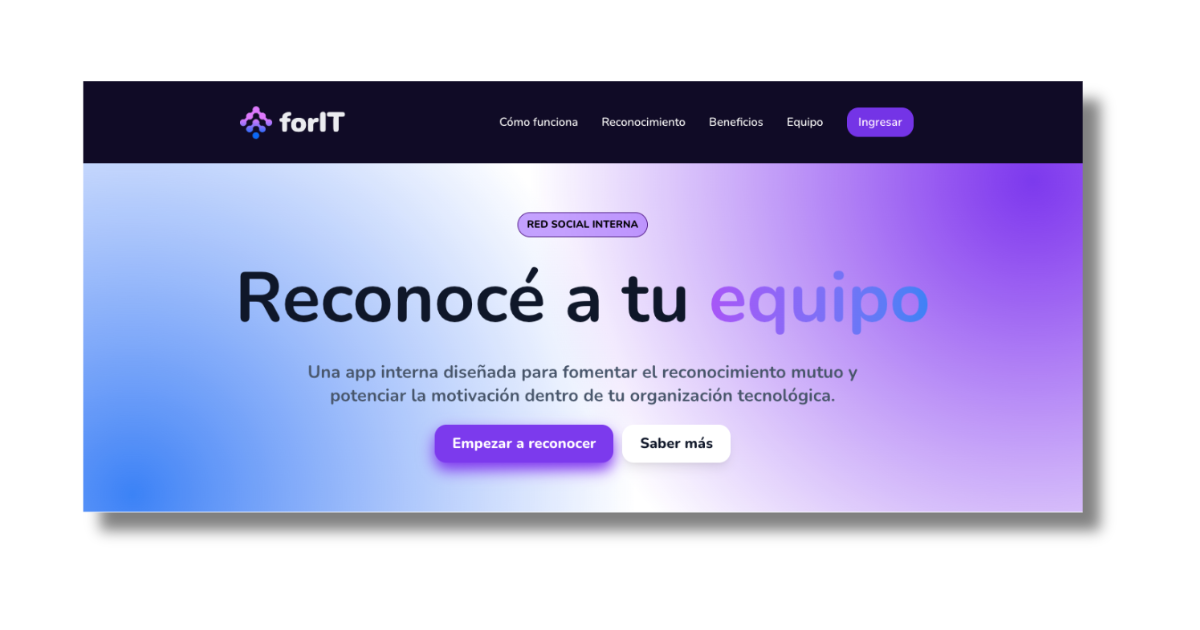
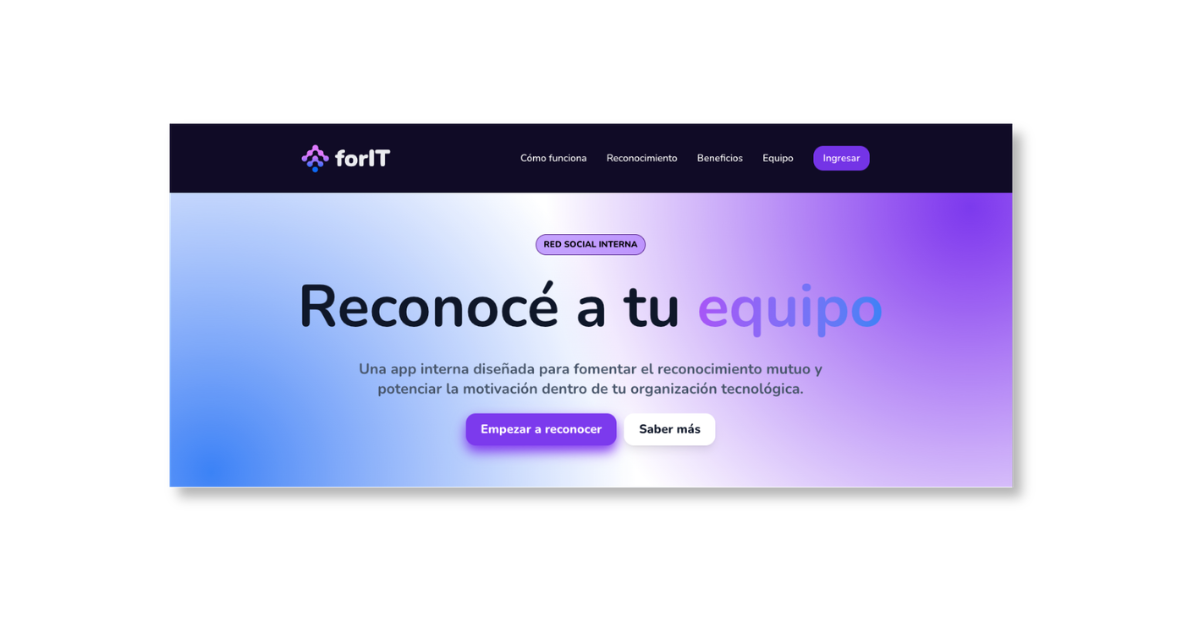
add proyects

diff --git a/src/data/profileData.ts b/src/data/profileData.ts
@@ -7,7 +7,13 @@ import {
   SiPostman,
   SiVercel,
   SiRender,
-  SiPostgresql
+  SiPostgresql,
+  SiGraphql,
+  SiTypescript,
+  SiJavascript,
+  SiPrisma,
+  SiDocker,
+  SiReact,
 } from "react-icons/si";
 import { BiCodeAlt } from "react-icons/bi";
 import {
@@ -16,6 +22,7 @@ import {
   IconoGitHub,
   IconoLinkedIn,
   IconoNodeJS,
+  IconoReact,
 } from "../components/iconos/iconosContacto";
 import type { ProfileHero, Proyectos, SkillCategory, Biografia } from "../types/profile";
 
@@ -61,15 +68,31 @@ export const misProyectos: Proyectos[] = [
         icono: IconoNodeJS,
         label: "NodeJS",
       },
+      {
+        icono: SiReact,
+        label: "React",
+      },
+      {
+        icono: SiPostgresql,
+        label: "Postgresql",
+      },
+      {
+        icono: SiPrisma,
+        label: "Prisma",
+      },
+      {
+        icono: SiDocker,
+        label: "Docker",
+      }
     ],
     imagenURL: "/proyecto-reconocimientos-app.png",
     demoURL: "https://recognitions.forit.ar/",
   },
   {
     id: "2",
-    titulo: "Task Manager API",
+    titulo: "Info-Track",
     descripcion:
-      "API RESTful avanzada para la gestión de proyectos de equipos con sockets en tiempo real y arquitectura limpia.",
+      "Aplicación web de gestión universitaria para la UNO. Permite el seguimiento del avance académico del estudiante, cálculo dinámico de materias habilitadas por correlativas, alertas de vencimiento de regularidad y un sistema de valoraciones para el cuerpo docente.",
     tecnologias: [
       {
         icono: IconoExpress,
@@ -79,13 +102,30 @@ export const misProyectos: Proyectos[] = [
         icono: IconoNodeJS,
         label: "NodeJS",
       },
+       {
+        icono: IconoReact,
+        label: "React",
+      },
+      {
+        icono: SiGraphql,
+        label: "Graphql",
+      },
+      {
+        icono: SiTypescript,
+        label:"TypeScript"
+      },
+      {
+        icono: SiJavascript,
+        label:"JavaScript"
+      },
     ],
-    imagenURL: "/proyecto-1.avif",
+    imagenURL: "/proyecto-info-track.png",
     repositorio: {
       icono: IconoGitHub,
       label: "Repositorio",
-      linkURL: "github.com",
+      linkURL: "https://github.com/danyelsalazar/frontend-info-track-UNO.git",
     },
+    demoURL: "https://frontend-info-track-46usp0k4t-danyelsalazars-projects.vercel.app/",
   },
 ];
 